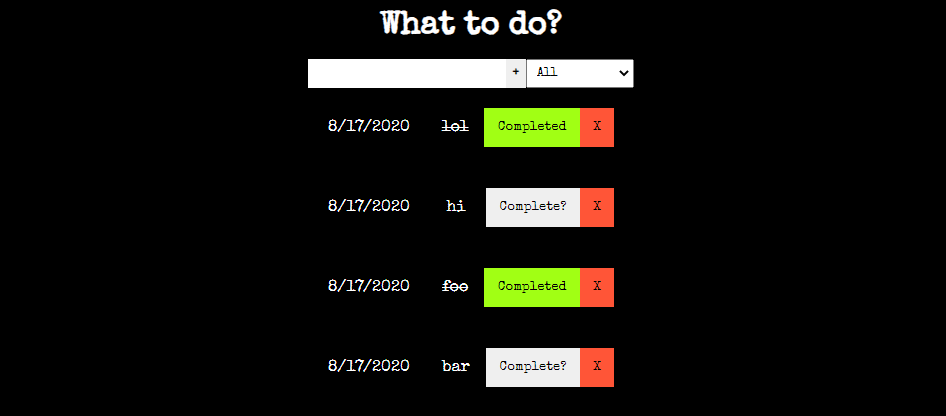
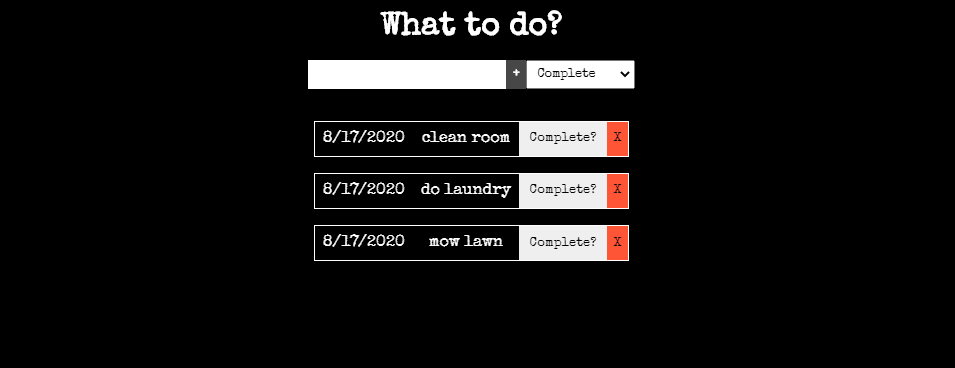
update

diff --git a/projects/todos/style.css b/projects/todos/style.css
@@ -23,6 +23,10 @@ form input,form button{
     text-align: center;
     outline: none;
 }
+form button{
+    background-color: rgb(71, 71, 71);
+    color: white;
+}
 #add{
     font-weight: bold;
 }
@@ -33,6 +37,7 @@ select{
 #list-container{
     display: flex;
     justify-content: center;
+    margin-top: 1em;
 }
 #list{
     display: flex;
@@ -41,22 +46,35 @@ select{
 .todo-div{
     display: flex;
     align-items: center;
-    list-style-type: none;
-    margin: 1em 2em 1em 2em;
     justify-content: space-between;
+    list-style-type: none;
+    margin-top: 1em;
+    transition: all 1s ease;
 }
-#date{
+.date{
+    padding: .5em;
     background-color: black;
+    /* border-top: white solid 1px;
+    border-bottom: white solid 1px; */
+}
+.btn-div{
+    display: flex;
+    flex-wrap: nowrap;
 }
 .list-item{
-    margin-left: 1em;
-    padding: 1em;
-
+    width: 100px;
+    line-height: 1.1em;
+    /* border-bottom: white solid 1px;
+    border-top: white solid 1px; */
+}
+p{
+    padding: .5em;
+    word-wrap: break-word;
 }
 .complete{
     outline: none;
     border: none;
-    padding: 1em;
+    padding: .8em;
     margin-right: 0;
 }
 .complete:hover{
@@ -65,10 +83,15 @@ select{
 .remove{
     background-color: rgb(255, 85, 55);
     border: none;
-    padding: 1em;
+    padding: .5em;
 }
 .remove:hover{
     background-color: red;
+}
+/* remove animation */
+.fall{
+    transform: scale(0) rotateZ(180deg);
+    /* opacity: 0; */
 }
 
 /* toggle completed */
@@ -79,4 +102,13 @@ select{
 /* toggle line trough text */
 .line-through{
     text-decoration: line-through;
+}
+
+@media(max-width: 500px){
+    /* .todo-div{
+        margin: 0;
+    }
+    .list-item{
+        padding: 0;
+    } */
 }

diff --git a/projects/todos/index.js b/projects/todos/index.js
@@ -63,8 +63,8 @@ function addTodo(td){
     todoDiv.appendChild(date)
     let li = document.createElement('li')
     li.classList.add('list-item')
-    li.innerText = input.value
     todoDiv.appendChild(li)
+    li.innerHTML = `<p>${input.value}</p>`
     let btnDiv = document.createElement('div')
     btnDiv.classList.add('btn-div')
     todoDiv.appendChild(btnDiv)
@@ -95,7 +95,10 @@ function completeOrDelete(e){
     let index = todoArr.indexOf(content)
     if(item.classList.contains('remove')){
         let todoDiv = e.target.parentElement.parentElement
-        todoDiv.remove()
+        todoDiv.classList.add('fall')
+        todoDiv.addEventListener('transitionend',function(){
+            todoDiv.remove()
+        })
         todos.splice(index,1)
         localStorage.setItem('todos',JSON.stringify(todos))
     }
@@ -135,11 +138,11 @@ function getTodos(){
         ul.appendChild(todoDiv)
         let date = document.createElement('div')
         date.classList.add('date')
-        date.innerText = `${i.date}`
+        date.innerText = `${i.date}:`
         todoDiv.appendChild(date)
         let li = document.createElement('li')
         li.classList.add('list-item')
-        li.innerText = i.todo
+        li.innerHTML = `<p>${i.todo}</p>`
         todoDiv.appendChild(li)
         let btnDiv = document.createElement('div')
         btnDiv.classList.add('btn-div')

diff --git a/style.css b/style.css
@@ -3,12 +3,14 @@
     margin: 0;
 }
 body{
-    background-image: url('wood.jpg');
+    /* background-image: url('wood.jpg');
     background-position: center center;
     background-repeat: no-repeat;
     background-attachment: fixed;
-    background-size: cover;
-    overflow: auto;
+    background-size: cover; */
+    background-color: black;
+    overflow-y: auto;
+    overflow-x: hidden;
     font-family: 'DM Sans', sans-serif;
 }
 #header{

diff --git a/projects/todos/index.html b/projects/todos/index.html
@@ -14,7 +14,7 @@
     </header>
     <main>
         <form action="#">
-            <input id="input" type="text" maxlength="40">
+            <input id="input" type="text" maxlength="20">
             <button id="add" type="submit">+</button>
             <select name="filter" id="filter">
                 <option value="all">All</option>
